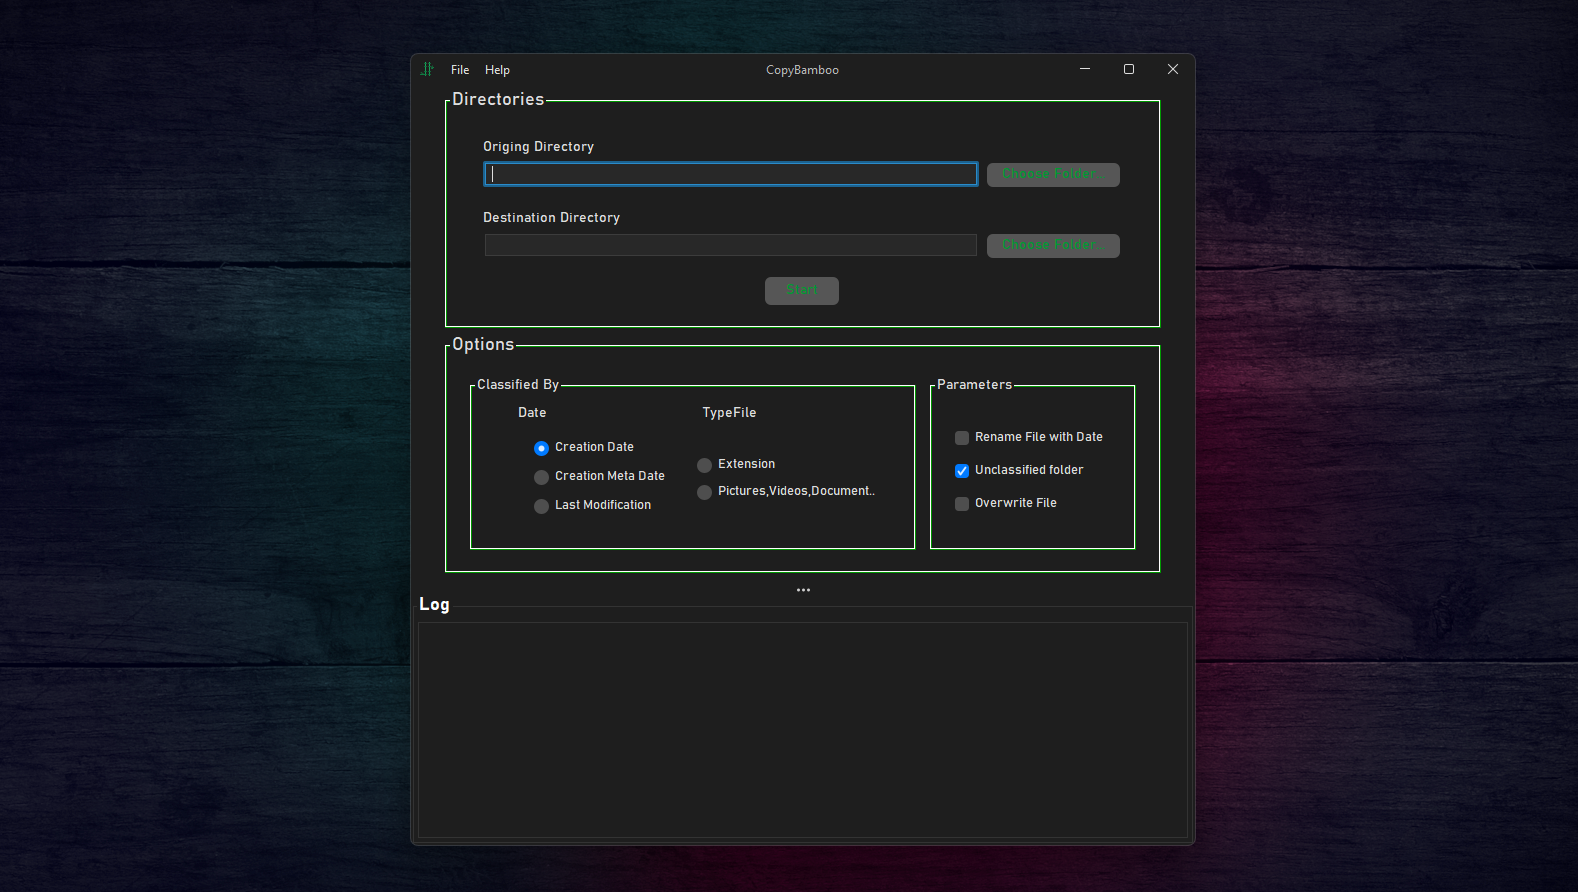
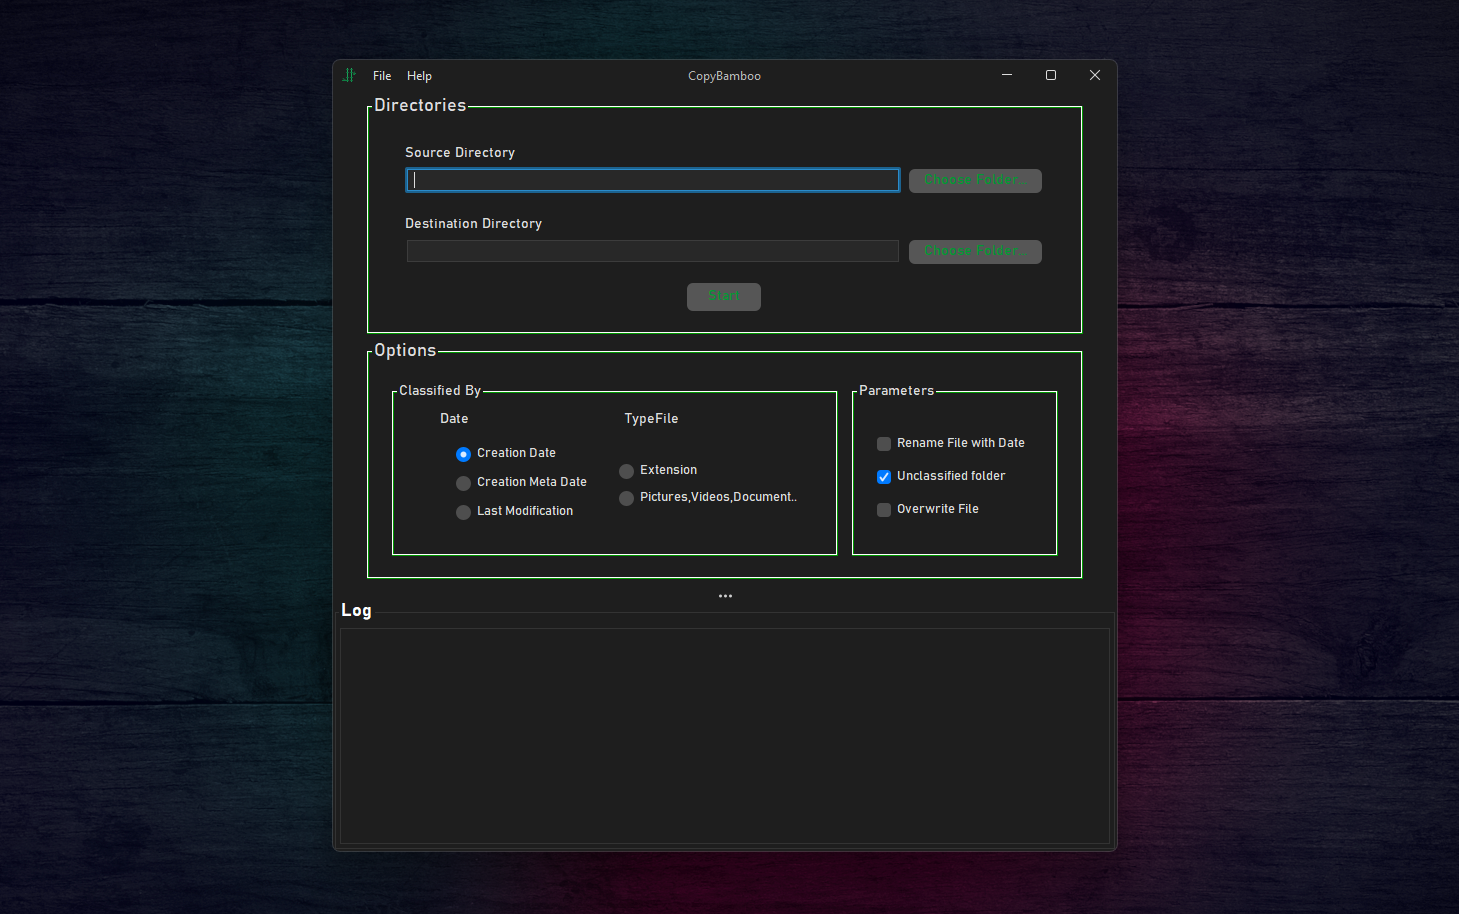
Fix misspelling

diff --git a/CopyBamboo/src/main/java/View/mainWindow.java b/CopyBamboo/src/main/java/View/mainWindow.java
@@ -203,7 +203,7 @@ public class mainWindow extends javax.swing.JFrame {
         panelRedondeado2.add(txtOriginDirectory, gridBagConstraints);
 
         lblOriginDirectory.setFont(new java.awt.Font("Bahnschrift", 0, 14)); // NOI18N
-        lblOriginDirectory.setText("Origing Directory");
+        lblOriginDirectory.setText("Source Directory");
         gridBagConstraints = new java.awt.GridBagConstraints();
         gridBagConstraints.gridx = 0;
         gridBagConstraints.gridy = 0;
